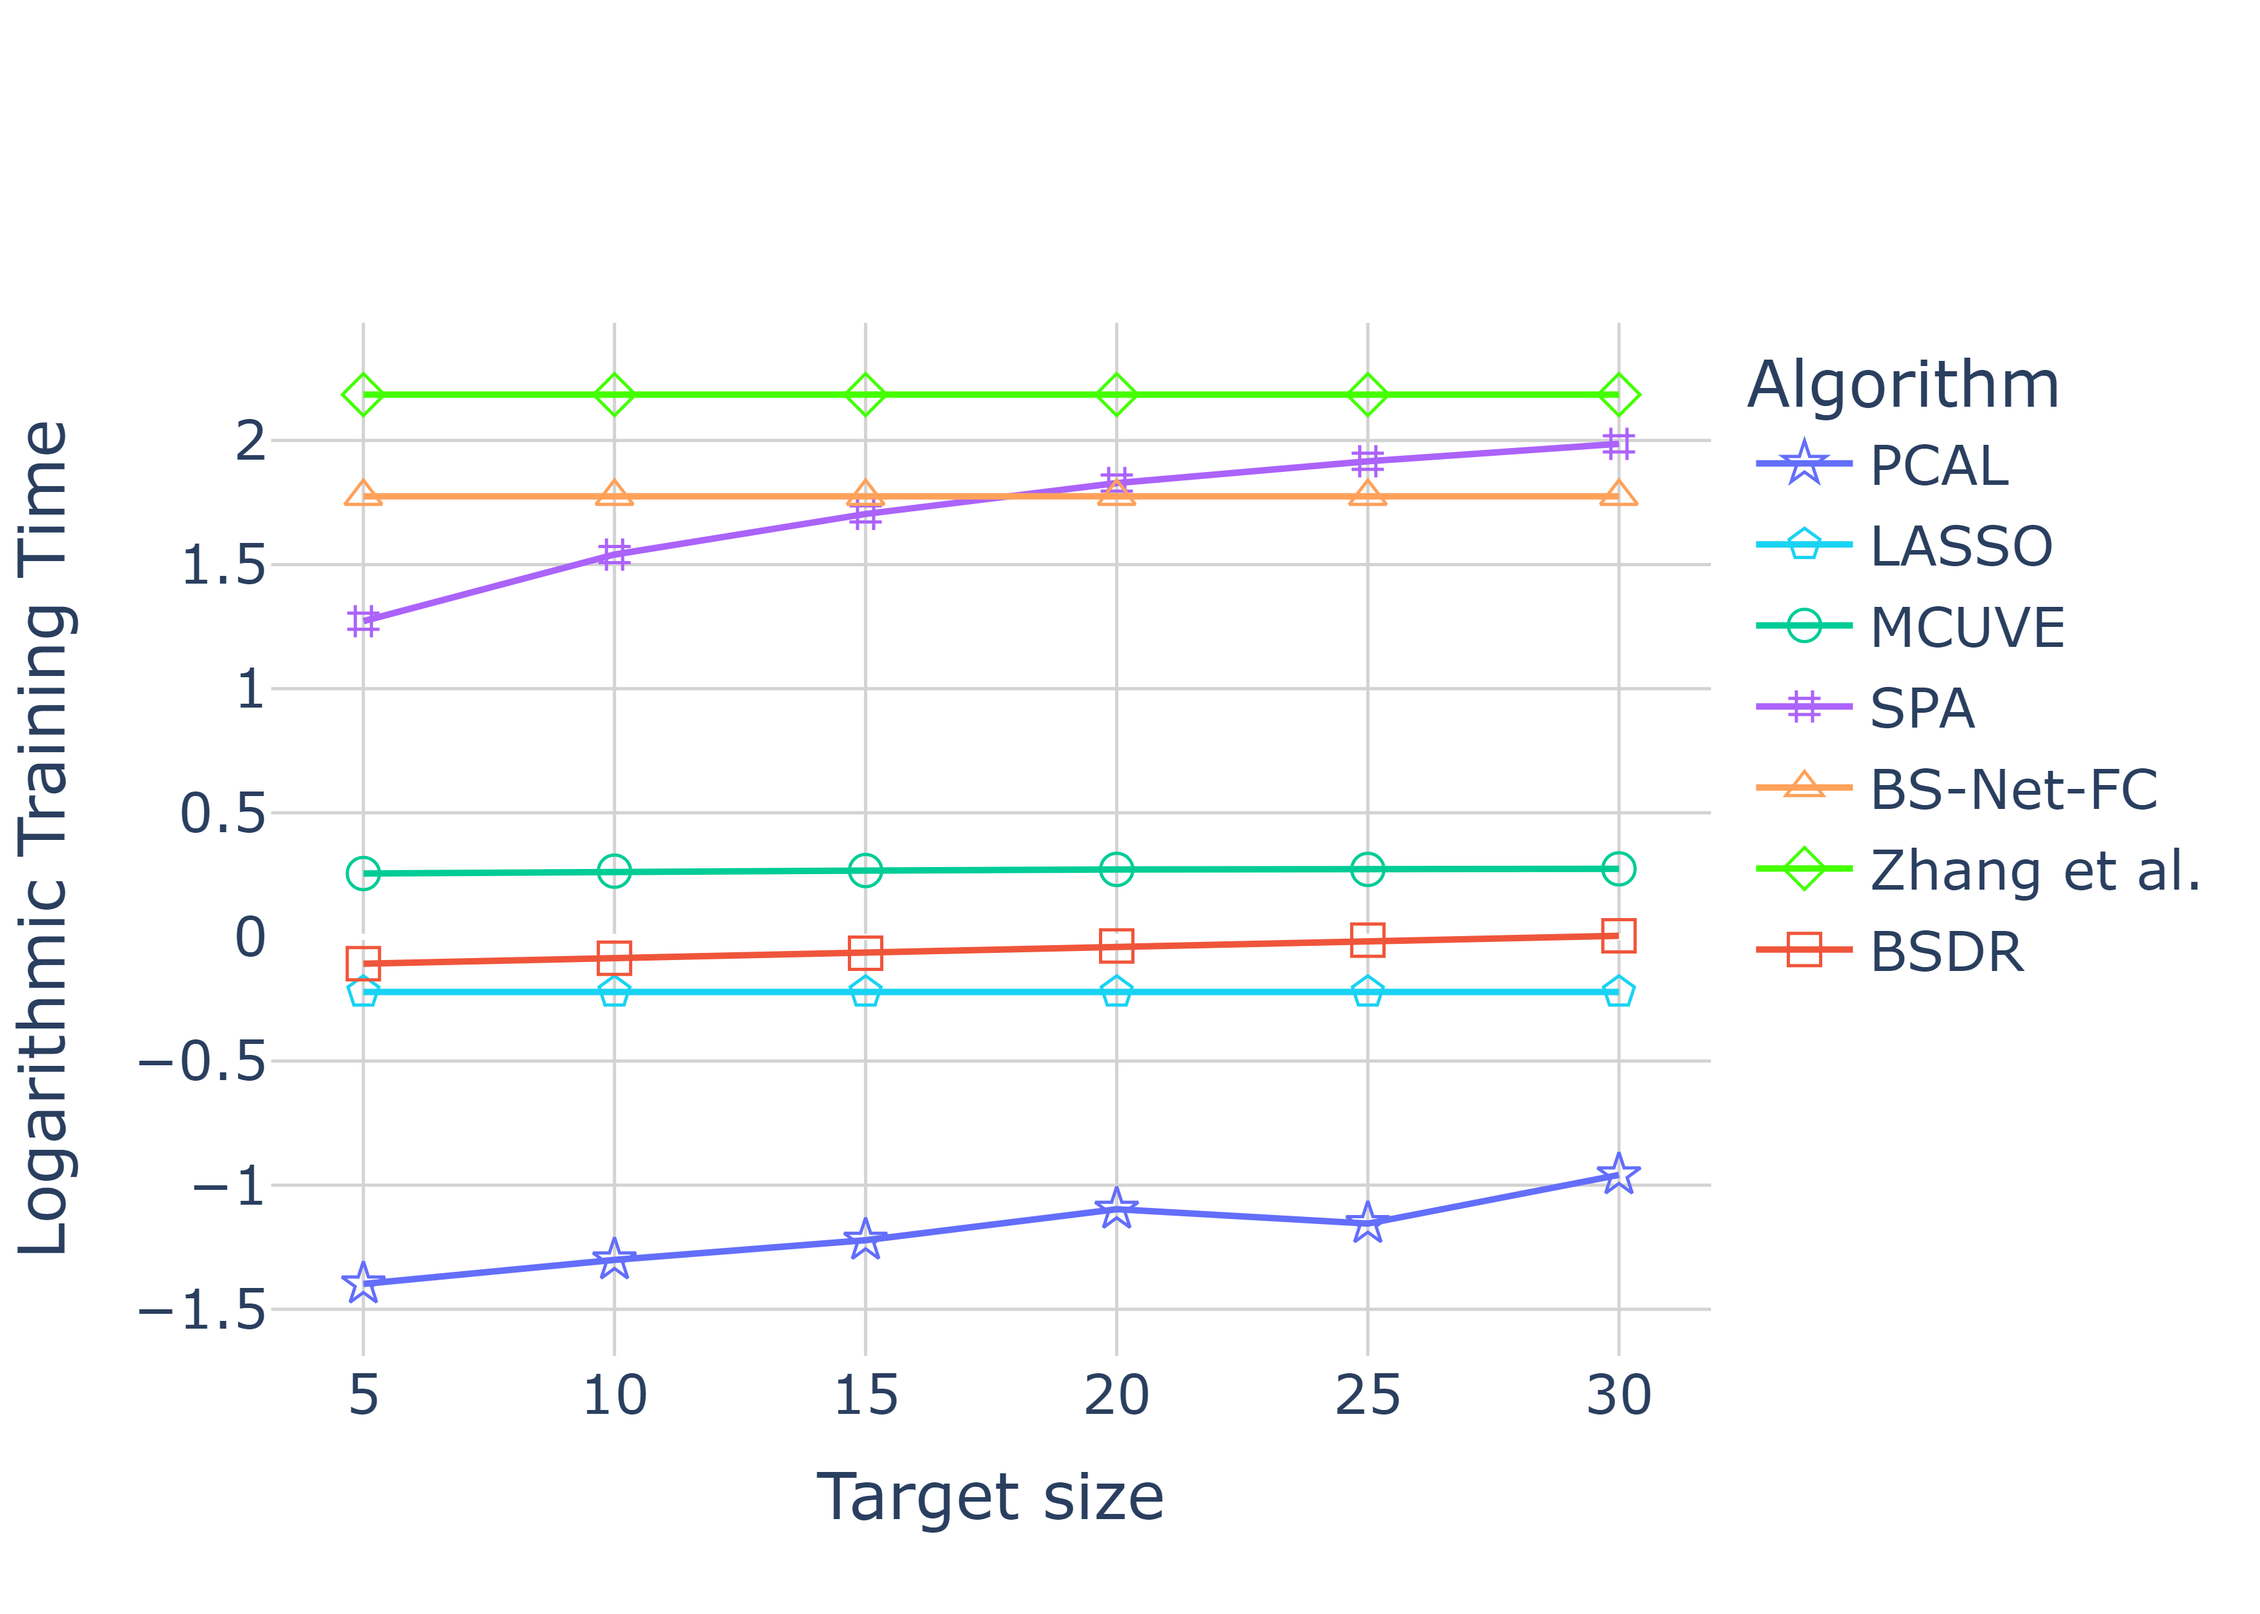
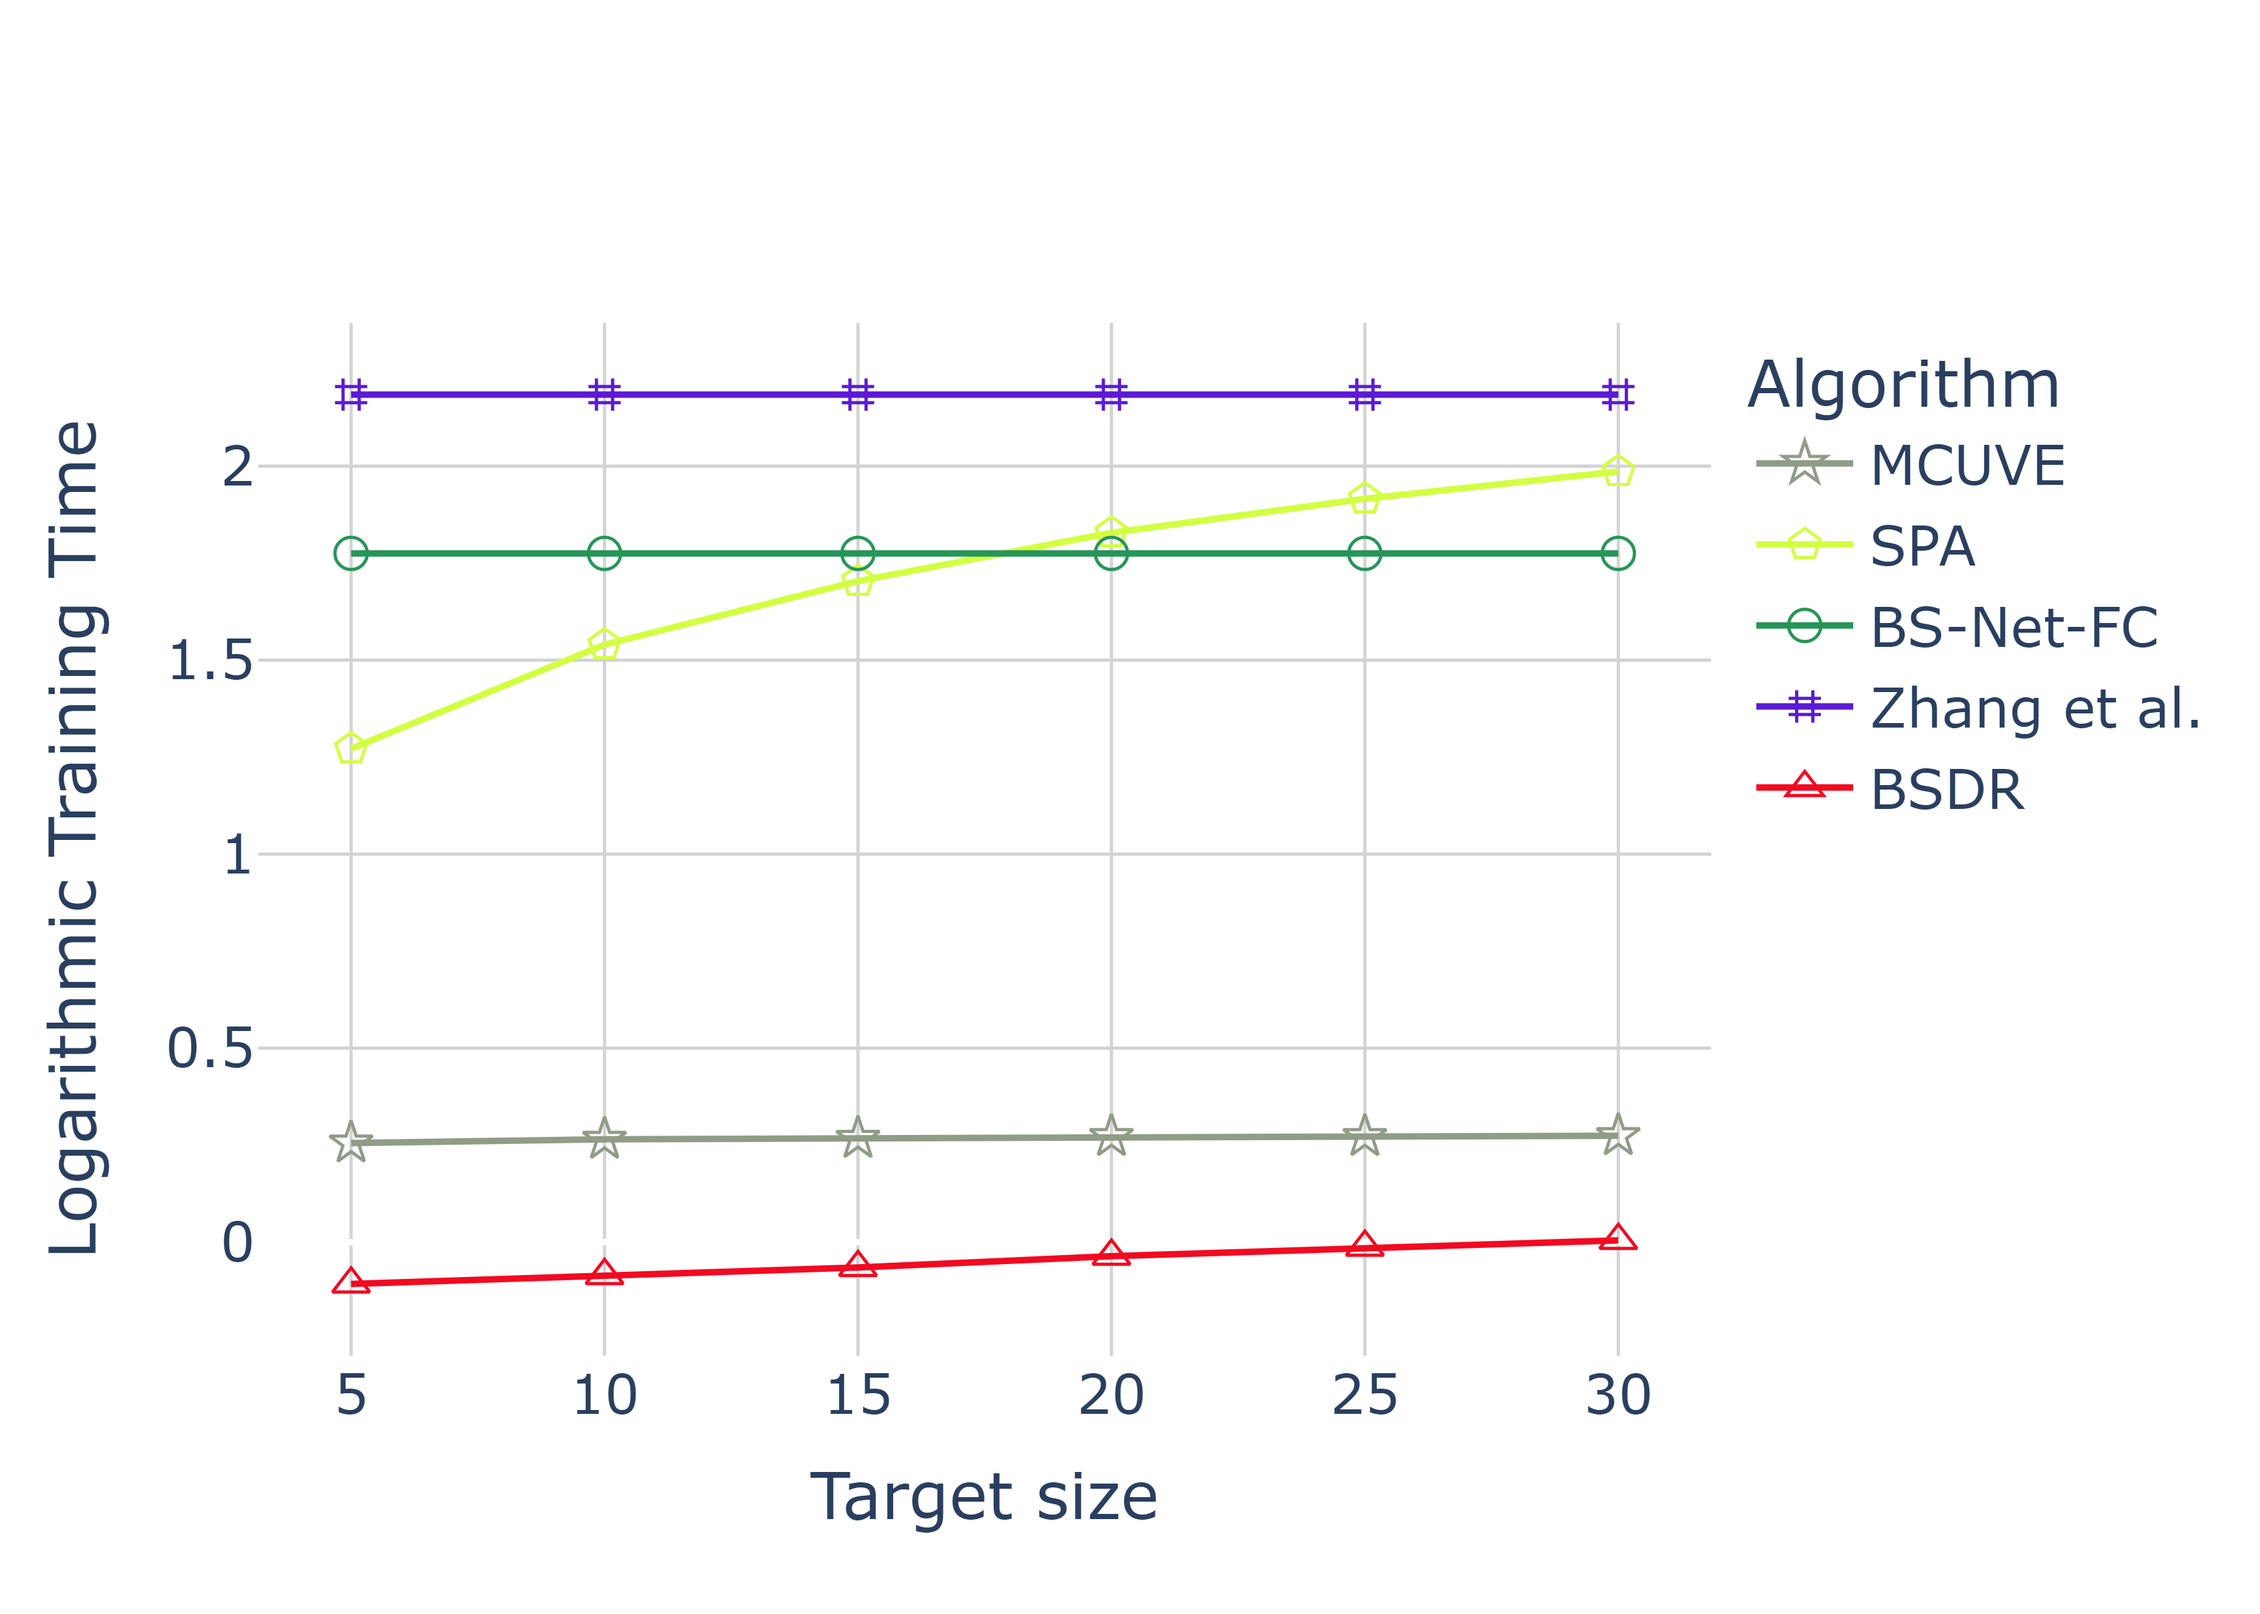
Start

diff --git a/plotters/classification_plots.py b/plotters/classification_plots.py
@@ -8,10 +8,10 @@ root = "../saved_figs"
 
 
 df_original = pd.read_csv("../final_results/classification.csv")
-priority_order = ['PCAL', 'LASSO', 'MCUVE', 'SPA','BS-Net-FC','Zhang et al.', 'BSDR','All Bands']
+priority_order = ['MCUVE', 'SPA','BS-Net-FC','Zhang et al.', 'BSDR','All Bands']
 df_original['algorithm'] = pd.Categorical(df_original['algorithm'], categories=priority_order, ordered=True)
 df_original = df_original.sort_values('algorithm')
-colors = ['#636EFA','#19D3F3' , '#00CC96', '#AB63FA', '#FFA15A','#44FF00', '#EF553B', '#000000']
+colors = ['#909c86','#d2ff41' , '#269658', '#5c1ad6', '#f20a21','#000000']
 markers = ['star-open', 'pentagon-open', 'circle-open', 'hash-open', 'triangle-up-open','diamond-open', 'square-open', None]
 
 for metric in ["time","metric1", "metric2"]:

diff --git a/plotters/regression_plots.py b/plotters/regression_plots.py
@@ -8,14 +8,10 @@ root = "../saved_figs"
 
 
 df_original = pd.read_csv("../final_results/regression.csv")
-priority_order = ['PCAL', 'LASSO', 'MCUVE',
-                  'SPA',
-                  'BS-Net-FC', 'BSDR','All Bands']
+priority_order = ['MCUVE','SPA','BS-Net-FC', 'BSDR','All Bands']
 df_original['algorithm'] = pd.Categorical(df_original['algorithm'], categories=priority_order, ordered=True)
 df_original = df_original.sort_values('algorithm')
-colors = ['#636EFA','#19D3F3' , '#00CC96',
-          '#AB63FA',
-          '#FFA15A', '#EF553B', '#000000']
+colors = ['#909c86','#d2ff41' , '#269658', '#f20a21','#000000']
 markers = ['star-open', 'pentagon-open', 'circle-open', 'hash-open', 'triangle-up-open', 'square-open', None]
 
 for metric in ["time","metric1", "metric2"]:

diff --git a/result_processor/classification_table_latext.py b/result_processor/classification_table_latext.py
@@ -21,7 +21,7 @@ def create_latex_table(metric, dataset):
     oa_df = pd.read_csv(f"../final_results/{dataset}_oa.csv")
     kappa_df = pd.read_csv(f"../final_results/{dataset}_kappa.csv")
     
-    priority_order = ['PCAL', 'LASSO', 'MCUVE','SPA','BS-Net-FC','Zhang et al.', 'BSDR','All Bands']
+    priority_order = ['MCUVE','SPA','BS-Net-FC','Zhang et al.', 'BSDR','All Bands']
     
     time_df['algorithm'] = pd.Categorical(time_df['algorithm'], categories=priority_order, ordered=True)
     time_df = time_df.sort_values('algorithm')

diff --git a/result_processor/regression_table_latext.py b/result_processor/regression_table_latext.py
@@ -21,7 +21,7 @@ def create_latex_table(metric, dataset):
     r2_df = pd.read_csv(f"../final_results/{dataset}_r2.csv")
     rmse_df = pd.read_csv(f"../final_results/{dataset}_rmse.csv")
 
-    priority_order = ['PCAL', 'LASSO', 'MCUVE', 'SPA', 'BS-Net-FC', 'Zhang et al.', 'BSDR', 'All Bands']
+    priority_order = ['MCUVE', 'SPA', 'BS-Net-FC', 'Zhang et al.', 'BSDR', 'All Bands']
 
     time_df['algorithm'] = pd.Categorical(time_df['algorithm'], categories=priority_order, ordered=True)
     time_df = time_df.sort_values('algorithm')

diff --git a/result_processor/classification.py b/result_processor/classification.py
@@ -7,7 +7,7 @@ all_df = pd.DataFrame()
 root = "../saved_results"
 locations = [os.path.join(root, subfolder) for subfolder in os.listdir(root)]
 locations = [loc for loc in locations if os.path.exists(loc)]
-algorithms = ["pcal","lasso","mcuve","spa","bsnet","zhang","bsdr"]
+algorithms = ["mcuve","spa","bsnet","zhang","bsdr"]
 datasets = ["ghisaconus","indian_pines"]
 targets = [5,10,15,20,25,30]
 df2 = pd.DataFrame(columns=["dataset","target_size","algorithm","time","metric1","metric2"])

diff --git a/result_processor/regression.py b/result_processor/regression.py
@@ -7,7 +7,7 @@ all_df = pd.DataFrame()
 root = "../saved_results"
 locations = [os.path.join(root, subfolder) for subfolder in os.listdir(root)]
 locations = [loc for loc in locations if os.path.exists(loc)]
-algorithms = ["pcal","lasso","mcuve","spa","bsnet","bsdr"]
+algorithms = ["mcuve","spa","bsnet","bsdr"]
 datasets = ["lucas"]
 targets = [5,10,15,20,25,30]
 df2 = pd.DataFrame(columns=["dataset","target_size","algorithm","time","metric1","metric2"])

diff --git a/result_processor/details.py b/result_processor/details.py
@@ -7,7 +7,7 @@ all_df = pd.DataFrame()
 root = "../saved_results"
 locations = [os.path.join(root, subfolder) for subfolder in os.listdir(root)]
 locations = [loc for loc in locations if os.path.exists(loc)]
-algorithms = ["pcal","lasso","mcuve","bsnet","bsdr"]
+algorithms = ["mcuve","bsnet","bsdr"]
 datasets = ["lucas"]
 targets = [5,10,15,20,25,30]
 df2 = pd.DataFrame(columns=["dataset","target_size","algorithm","time","metric1","metric2"])
